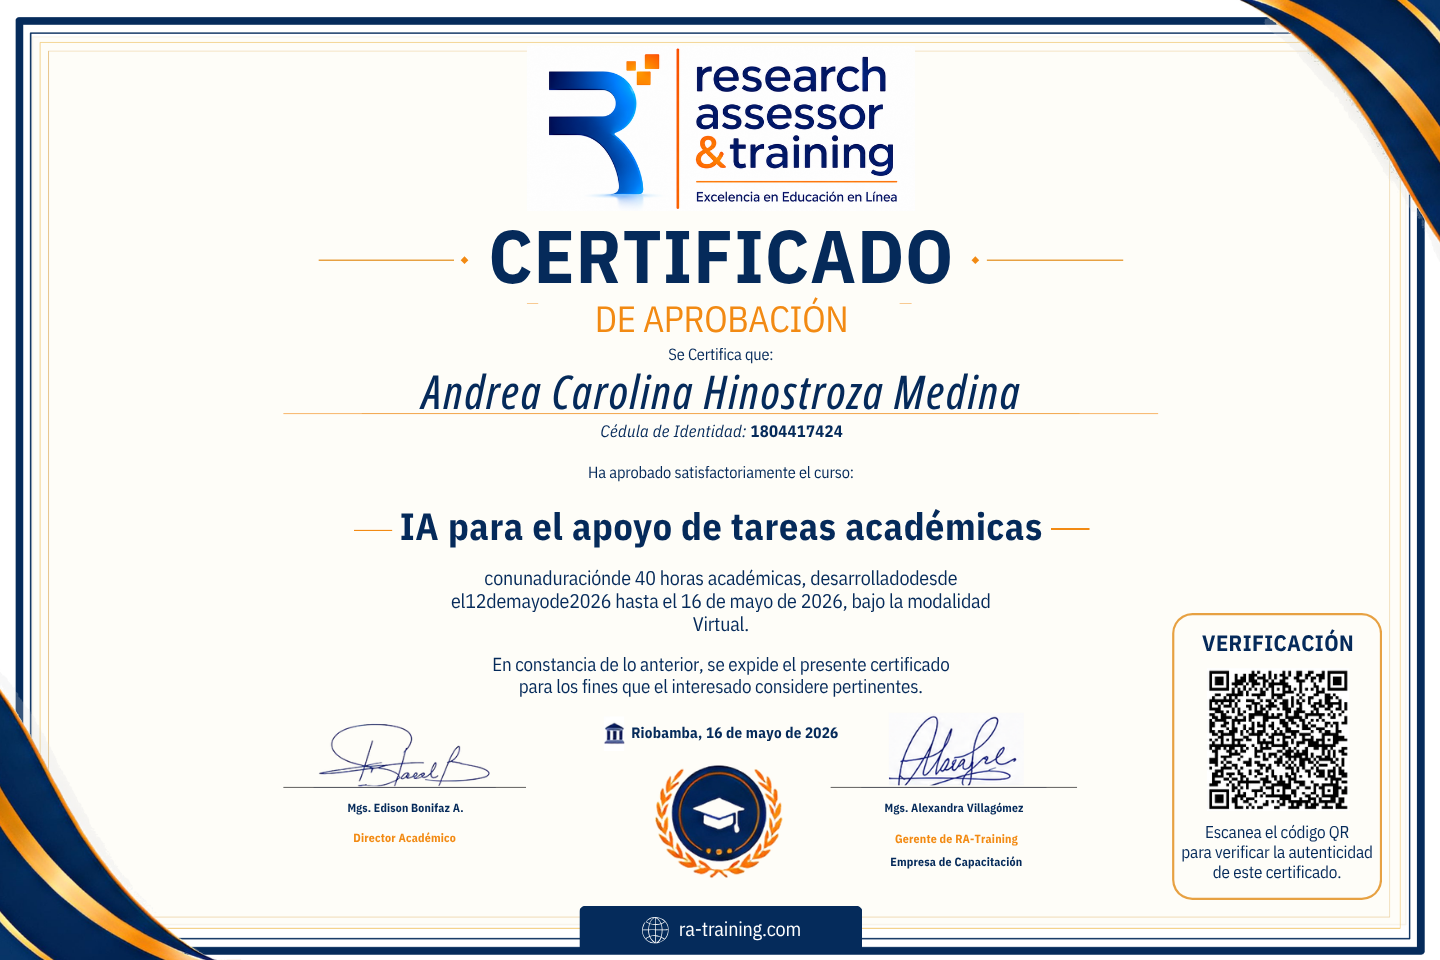
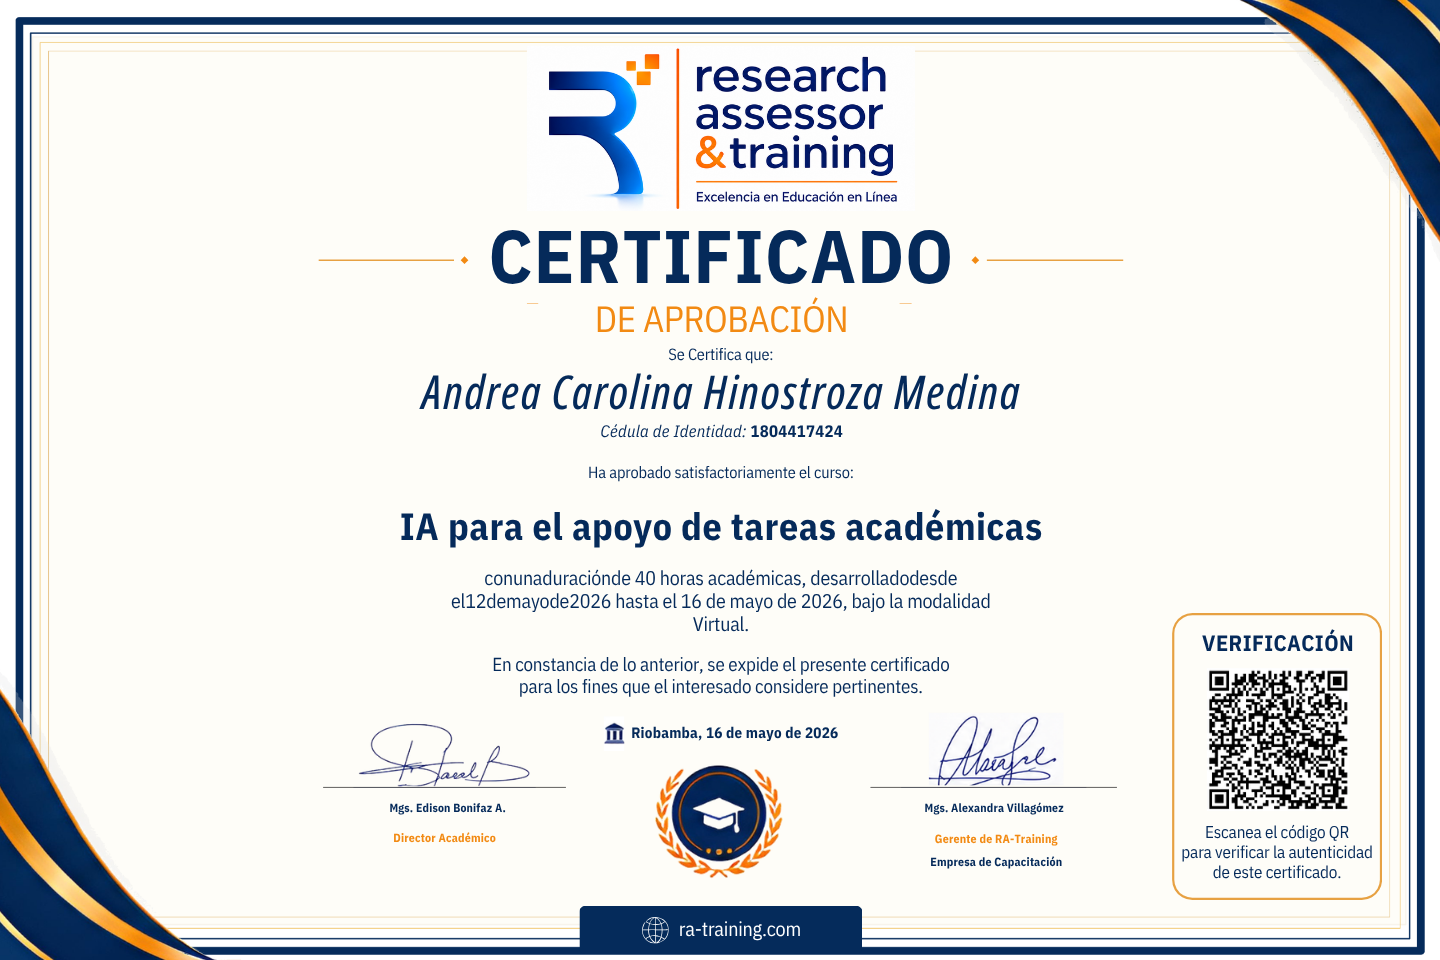
fix: eliminar lineas observadas del certificado

Changed region(s): [[0.625, 0.75, 0.75, 0.9062], [0.2188, 0.75, 0.375, 0.875]]

diff --git a/src/utils/certificateGenerator.js b/src/utils/certificateGenerator.js
@@ -164,7 +164,7 @@ function drawDynamicFields(doc, inscripcion) {
   const centerX = PAGE_WIDTH / 2
   doc.setTextColor(...COLORS.navy)
 
-  // Nombre: se conserva intacta la línea naranja original que está debajo.
+  // Nombre: la referencia aprobada ya no incluye la línea decorativa inferior.
   cover(doc, 104, 96.1, 173, 13)
   fitOneLine(doc, inscripcion.ClienteNombre, {
     family: 'OpenSansCondensed',
@@ -181,7 +181,7 @@ function drawDynamicFields(doc, inscripcion) {
   doc.setFontSize(12.5)
   doc.text(String(inscripcion.ClienteID), 198.55, 115.75)
 
-  // Curso: los adornos naranjas laterales permanecen en la plantilla.
+  // Curso: la referencia aprobada ya no incluye las líneas decorativas laterales.
   cover(doc, 104.3, 131, 172.4, 16.3)
   const course = fitLines(doc, inscripcion.ServicioNombre, {
     family: 'IBMPlexSansCondensed',

diff --git a/docs/evidence/certificates/README.md b/docs/evidence/certificates/README.md
@@ -1,0 +1,24 @@
+# Evidencias del ajuste limitado del certificado
+
+Fecha: 27 de julio de 2026
+Datos: las capturas de evidencia están redactadas y utilizan textos ficticios.
+
+## Cambio aprobado
+
+Se sustituyó la plantilla rasterizada por la referencia entregada por gerencia, conservando exactamente 1440 × 960 px. El archivo aplicado tiene el mismo SHA-256 que la referencia recibida.
+
+Únicamente desaparecen:
+
+- la línea naranja horizontal bajo el nombre del participante;
+- las dos líneas naranjas laterales del nombre del curso.
+
+Se conservan los bordes, el logotipo, los dos espacios de firma, las firmas existentes, el sello, el recuadro de verificación, la orientación, los textos institucionales y el QR dinámico generado por inscripción.
+
+## Archivos
+
+- `certificate-before-redacted.png`: plantilla anterior con datos cubiertos.
+- `certificate-reference-redacted.png`: referencia recibida con datos cubiertos.
+- `certificate-after-redacted.png`: plantilla aplicada con datos cubiertos.
+- `certificate-comparison-overlay.png`: diferencias resaltadas en rojo.
+
+La plantilla fuente usada por el generador permanece en `src/assets/certificate/canva/certificate-template.png`. No se implementó ningún modelo nuevo de Canva.
